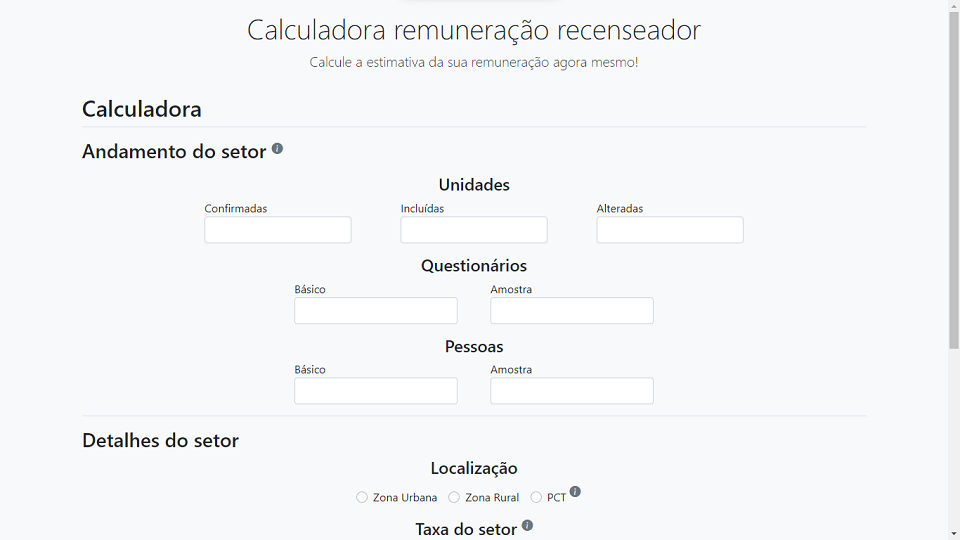
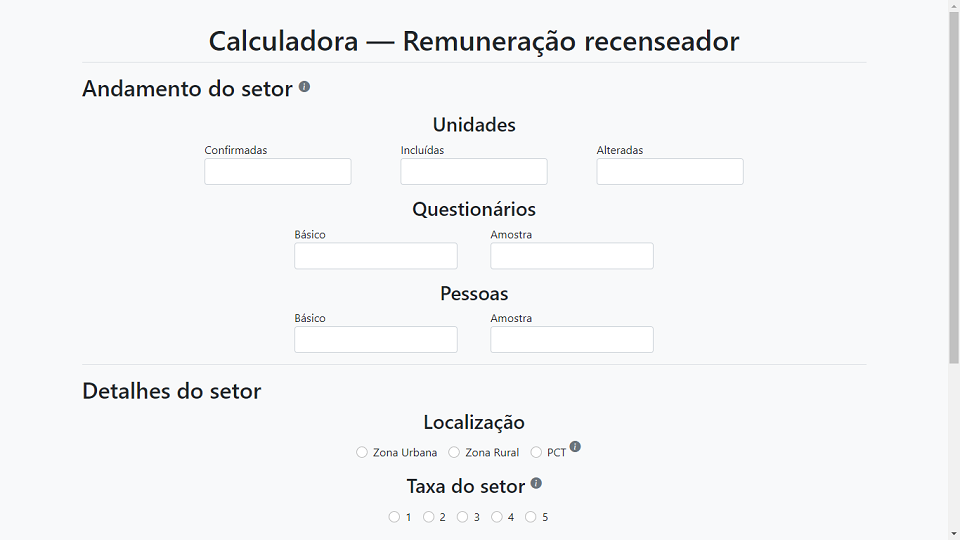
Pequenas mudanças no design

diff --git a/js/app.min.js b/js/app.min.js
@@ -1,1 +1,1 @@
-const tooltipTriggerList=[].slice.call(document.querySelectorAll('[data-bs-toggle="tooltip"]'));tooltipTriggerList.map(function(a){return new bootstrap.Tooltip(a)});let taxes={1:{urban:{unit:.51,basic:{people:.9,quiz:1.21},sample:{people:1.51,quiz:1.41}},rural:{unit:.56,basic:{people:1.01,quiz:1.34},sample:{people:1.67,quiz:1.57}}},2:{urban:{unit:.56,basic:{people:1.01,quiz:1.34},sample:{people:1.67,quiz:1.57}},rural:{unit:.62,basic:{people:1.1,quiz:1.46},sample:{people:1.83,quiz:1.7}}},3:{urban:{unit:.62,basic:{people:1.1,quiz:1.46},sample:{people:1.83,quiz:1.7}},rural:{unit:.69,basic:{people:1.21,quiz:1.61},sample:{people:2.01,quiz:1.89}}},4:{urban:{unit:.69,basic:{people:1.21,quiz:1.61},sample:{people:2.01,quiz:1.89}},rural:{unit:.75,basic:{people:1.33,quiz:1.76},sample:{people:2.21,quiz:2.07}}},5:{urban:{unit:.75,basic:{people:1.33,quiz:1.76},sample:{people:2.21,quiz:2.07}},rural:{unit:.82,basic:{people:1.46,quiz:1.94},sample:{people:2.45,quiz:2.28}}},6:{urban:{unit:.82,basic:{people:1.46,quiz:1.94},sample:{people:2.45,quiz:2.28}},rural:{unit:.9,basic:{people:1.6,quiz:2.14},sample:{people:2.68,quiz:2.51}}},7:{urban:{unit:.9,basic:{people:1.6,quiz:2.14},sample:{people:2.68,quiz:2.51}},rural:{unit:1,basic:{people:1.76,quiz:2.36},sample:{people:2.94,quiz:2.76}}},8:{urban:{unit:1,basic:{people:1.94,quiz:2.6},sample:{people:3.25,quiz:3.03}},rural:{unit:1.11,basic:{people:2.01,quiz:2.67},sample:{people:3.32,quiz:3.1}}},9:{urban:{unit:1.19,basic:{people:2.33,quiz:3.12},sample:{people:3.9,quiz:3.64}},rural:{unit:1.33,basic:{people:2.42,quiz:3.2},sample:{people:3.98,quiz:3.72}}},10:{urban:{unit:1.31,basic:{people:2.56,quiz:3.43},sample:{people:4.29,quiz:4}},rural:{unit:1.46,basic:{people:2.66,quiz:3.52},sample:{people:4.38,quiz:4.09}}},11:{urban:{unit:1.44,basic:{people:2.82,quiz:3.77},sample:{people:4.72,quiz:4.4}},rural:{unit:1.61,basic:{people:2.93,quiz:3.87},sample:{people:4.82,quiz:4.5}}}};$("#calculator").on("submit",function(j){if(j.preventDefault(),this.checkValidity()){let k=$("#number-sons").val(),h=0,c={taxe:14,discount:0},b={taxe:0,discount:0},e=$('input[name="taxe"]:checked').val(),d={},l=$('input[name="locale"]:checked').val(),i=parseInt($("#units-confirmed").val())+parseInt($("#units-changed").val()),a=0;i+=parseInt($("#units-included").val());let f={basic:parseInt($("#quiz-basic").val()),sample:parseInt($("#quiz-sample").val())},g={basic:parseInt($("#people-basic").val()),sample:parseInt($("#people-sample").val())};e=taxes[e][l],d.units=i*e.unit,d.quiz=f.basic*e.basic.quiz+f.sample*e.sample.quiz,d.people=g.basic*e.basic.people+g.sample*e.sample.people,a+=d.units+d.quiz+d.people,$("#units").html(i),$("#quiz").html(f.basic+f.sample),$("#people").html(g.basic+g.sample),$("#units-value").html(d.units.toLocaleString("pt-br",{style:"currency",currency:"BRL"})),$("#quiz-value").html(d.quiz.toLocaleString("pt-br",{style:"currency",currency:"BRL"})),$("#people-value").html(d.people.toLocaleString("pt-br",{style:"currency",currency:"BRL"})),a<=1655.98&&a>0?($("#quantity-sons").html(k),h=56.47*k):$("#family-salary").html("Sal\xe1rio fora da faixa contemplada!"),$("#family-salary-value").html(h.toLocaleString("pt-br",{style:"currency",currency:"BRL"})),a<=1212?c.taxe=7.5:a<=2427.35?c.taxe=9:a<=3641.03?c.taxe=12:a<=7087.22?c.taxe=14:c.discount=992.2108000000001,0===c.discount&&(c.discount-=a/100*c.taxe),$("#percent-inss").html(c.taxe.toLocaleString("pt-br")),$("#inss-value").html(c.discount.toLocaleString("pt-br",{style:"currency",currency:"BRL"})),(a+=c.discount)<=1903.98?b.taxe=0:a<=2826.65?(b.taxe=7.5,b.discount=142.8):a<=3751.05?(b.taxe=15,b.discount=354.8):a<=4664.68?(b.taxe=22.5,b.discount=636.13):(b.taxe=27.5,b.discount=869.36),b.discount-=a/100*b.taxe,$("#percent-irrf").html(b.taxe.toLocaleString("pt-br")),$("#irrf-value").html(b.discount.toLocaleString("pt-br",{style:"currency",currency:"BRL"})),a+=b.discount,a+=h,$("#income-value").html(a.toLocaleString("pt-br",{style:"currency",currency:"BRL"})),$("#income").removeClass("d-none"),window.location.href="#income"}else j.stopPropagation();$(this).addClass("was-validated")})
+const tooltipTriggerList=[].slice.call(document.querySelectorAll('[data-bs-toggle="tooltip"]'));tooltipTriggerList.map(function(a){return new bootstrap.Tooltip(a)});let taxes={1:{urban:{unit:.51,basic:{people:.9,quiz:1.21},sample:{people:1.51,quiz:1.41}},rural:{unit:.56,basic:{people:1.01,quiz:1.34},sample:{people:1.67,quiz:1.57}}},2:{urban:{unit:.56,basic:{people:1.01,quiz:1.34},sample:{people:1.67,quiz:1.57}},rural:{unit:.62,basic:{people:1.1,quiz:1.46},sample:{people:1.83,quiz:1.7}}},3:{urban:{unit:.62,basic:{people:1.1,quiz:1.46},sample:{people:1.83,quiz:1.7}},rural:{unit:.69,basic:{people:1.21,quiz:1.61},sample:{people:2.01,quiz:1.89}}},4:{urban:{unit:.69,basic:{people:1.21,quiz:1.61},sample:{people:2.01,quiz:1.89}},rural:{unit:.75,basic:{people:1.33,quiz:1.76},sample:{people:2.21,quiz:2.07}}},5:{urban:{unit:.75,basic:{people:1.33,quiz:1.76},sample:{people:2.21,quiz:2.07}},rural:{unit:.82,basic:{people:1.46,quiz:1.94},sample:{people:2.45,quiz:2.28}}},6:{urban:{unit:.82,basic:{people:1.46,quiz:1.94},sample:{people:2.45,quiz:2.28}},rural:{unit:.9,basic:{people:1.6,quiz:2.14},sample:{people:2.68,quiz:2.51}}},7:{urban:{unit:.9,basic:{people:1.6,quiz:2.14},sample:{people:2.68,quiz:2.51}},rural:{unit:1,basic:{people:1.76,quiz:2.36},sample:{people:2.94,quiz:2.76}}},8:{urban:{unit:1,basic:{people:1.94,quiz:2.6},sample:{people:3.25,quiz:3.03}},rural:{unit:1.11,basic:{people:2.01,quiz:2.67},sample:{people:3.32,quiz:3.1}}},9:{urban:{unit:1.19,basic:{people:2.33,quiz:3.12},sample:{people:3.9,quiz:3.64}},rural:{unit:1.33,basic:{people:2.42,quiz:3.2},sample:{people:3.98,quiz:3.72}}},10:{urban:{unit:1.31,basic:{people:2.56,quiz:3.43},sample:{people:4.29,quiz:4}},rural:{unit:1.46,basic:{people:2.66,quiz:3.52},sample:{people:4.38,quiz:4.09}}},11:{urban:{unit:1.44,basic:{people:2.82,quiz:3.77},sample:{people:4.72,quiz:4.4}},rural:{unit:1.61,basic:{people:2.93,quiz:3.87},sample:{people:4.82,quiz:4.5}}}};function currency(a){return a.toLocaleString("pt-br",{style:"currency",currency:"BRL"})}function calcINSS(b){let a={taxe:14,discount:0};return b<=1212?a.taxe=7.5:b<=2427.35?a.taxe=9:b<=3641.03?a.taxe=12:b<=7087.22?a.taxe=14:a.discount=992.2108000000001,0===a.discount&&(a.discount-=b/100*a.taxe),a}function calcIRRF(b){let a={taxe:0,discount:0};return b<=1903.98?a.taxe=0:b<=2826.65?(a.taxe=7.5,a.discount=142.8):b<=3751.05?(a.taxe=15,a.discount=354.8):b<=4664.68?(a.taxe=22.5,a.discount=636.13):(a.taxe=27.5,a.discount=869.36),a.discount-=b/100*a.taxe,a}$("#calculator").on("submit",function(j){if(j.preventDefault(),this.checkValidity()){let k=$("#number-sons").val(),h=0,a=0,d,e,c=$('input[name="taxe"]:checked').val(),b={},l=$('input[name="locale"]:checked').val(),i=parseInt($("#units-confirmed").val())+parseInt($("#units-changed").val());i+=parseInt($("#units-included").val());let f={basic:parseInt($("#quiz-basic").val()),sample:parseInt($("#quiz-sample").val())},g={basic:parseInt($("#people-basic").val()),sample:parseInt($("#people-sample").val())};c=taxes[c][l],b.units=i*c.unit,b.quiz=f.basic*c.basic.quiz+f.sample*c.sample.quiz,b.people=g.basic*c.basic.people+g.sample*c.sample.people,a+=b.units+b.quiz+b.people,$("#units").html(i),$("#quiz").html(f.basic+f.sample),$("#people").html(g.basic+g.sample),$("#units-value").html(currency(b.units)),$("#quiz-value").html(currency(b.quiz)),$("#people-value").html(currency(b.people)),a<=1655.98&&a>0?($("#quantity-sons").html(k),h=56.47*k):$("#family-salary").html("Sal\xe1rio fora da faixa contemplada!"),$("#family-salary-value").html(currency(h)),d=calcINSS(a),$("#percent-inss").html(d.taxe.toLocaleString("pt-br")),$("#inss-value").html(currency(d.discount)),a+=d.discount,e=calcIRRF(a),$("#percent-irrf").html(e.taxe.toLocaleString("pt-br")),$("#irrf-value").html(currency(e.discount)),a+=e.discount,a+=h,$("#income-value").html(currency(a)),$("#income").removeClass("d-none"),window.location.href="#income"}else j.stopPropagation();$(this).addClass("was-validated")})

diff --git a/js/app.js b/js/app.js
@@ -270,15 +270,15 @@ let taxes = {
     },
 }
 
-$('#calculator').on('submit', function (e) { // Realiza o cálculo da remuneração
+$('#calculator').on('submit', function (e) {
     e.preventDefault()
     if (!this.checkValidity()) {
         e.stopPropagation()
     } else {
-        let sons = $('#number-sons').val(), family = 0, inss = {taxe: 14, discount: 0}, irrf = {taxe: 0, discount: 0}
+        let sons = $('#number-sons').val(), family = 0, income = 0, inss, irrf
         let taxe = $('input[name="taxe"]:checked').val(), value = {}
         const locale = $('input[name="locale"]:checked').val()
-        let units = parseInt($('#units-confirmed').val()) + parseInt($('#units-changed').val()), income = 0
+        let units = parseInt($('#units-confirmed').val()) + parseInt($('#units-changed').val())
         units +=  parseInt($('#units-included').val())
         const quiz = {
             basic: parseInt($('#quiz-basic').val()),
@@ -288,66 +288,93 @@ $('#calculator').on('submit', function (e) { // Realiza o cálculo da remuneraç
             basic: parseInt($('#people-basic').val()),
             sample: parseInt($('#people-sample').val())
         }
+
         taxe = taxes[taxe][locale]
+
         value.units = units * taxe.unit
         value.quiz =  quiz.basic * taxe.basic.quiz + quiz.sample * taxe.sample.quiz
         value.people = people.basic * taxe.basic.people + people.sample * taxe.sample.people
+
         income += value.units + value.quiz + value.people
+
         $('#units').html(units)
         $('#quiz').html(quiz.basic + quiz.sample)
         $('#people').html(people.basic + people.sample)
-        $('#units-value').html(value.units.toLocaleString('pt-br', {style: 'currency', currency: 'BRL'}))
-        $('#quiz-value').html(value.quiz.toLocaleString('pt-br', {style: 'currency', currency: 'BRL'}))
-        $('#people-value').html(value.people.toLocaleString('pt-br', {style: 'currency', currency: 'BRL'}))
+
+        $('#units-value').html(currency(value.units))
+        $('#quiz-value').html(currency(value.quiz))
+        $('#people-value').html(currency(value.people))
 
         if (income <= 1655.98 && income > 0){
             $('#quantity-sons').html(sons)
             family = sons * 56.47
         } else $('#family-salary').html('Salário fora da faixa contemplada!')
-        $('#family-salary-value').html(family.toLocaleString('pt-br', {style: 'currency', currency: 'BRL'}))
 
-        if (income <= 1212) inss.taxe = 7.5
-        else if (income <= 2427.35) inss.taxe = 9
-        else if (income <= 3641.03) inss.taxe = 12
-        else if (income <= 7087.22) inss.taxe = 14
-        else inss.discount = 7087.22 / 100 * 14
-        if (inss.discount === 0) inss.discount -= income / 100 * inss.taxe
+        $('#family-salary-value').html(currency(family))
+
+        inss = calcINSS(income)
 
         $('#percent-inss').html(inss.taxe.toLocaleString('pt-br'))
-        $('#inss-value').html(inss.discount.toLocaleString('pt-br', {style: 'currency', currency: 'BRL'}))
+        $('#inss-value').html(currency(inss.discount))
 
         income += inss.discount
 
-        if (income <= 1903.98) irrf.taxe = 0
-        else if (income <= 2826.65){
-            irrf.taxe = 7.5
-            irrf.discount = 142.80
-        }
-        else if(income <= 3751.05){
-            irrf.taxe = 15
-            irrf.discount = 354.80
-        }
-        else if(income <= 4664.68){
-            irrf.taxe = 22.5
-            irrf.discount = 636.13
-        }
-        else{
-            irrf.taxe = 27.5
-            irrf.discount = 869.36
-        }
-
-        irrf.discount -= income / 100 * irrf.taxe
+        irrf = calcIRRF(income)
 
         $('#percent-irrf').html(irrf.taxe.toLocaleString('pt-br'))
-        $('#irrf-value').html(irrf.discount.toLocaleString('pt-br', {style: 'currency', currency: 'BRL'}))
+        $('#irrf-value').html(currency(irrf.discount))
 
         income += irrf.discount
         income += family
 
-        $('#income-value').html(income.toLocaleString('pt-br', {style: 'currency', currency: 'BRL'}))
+        $('#income-value').html(currency(income))
         $('#income').removeClass('d-none')
+
         window.location.href = '#income'
     }
 
     $(this).addClass('was-validated')
 })
+
+function currency(number){
+    return number.toLocaleString('pt-br', {style: 'currency', currency: 'BRL'})
+}
+
+function calcINSS(income){
+    let inss = {taxe: 14, discount: 0}
+
+    if (income <= 1212) inss.taxe = 7.5
+    else if (income <= 2427.35) inss.taxe = 9
+    else if (income <= 3641.03) inss.taxe = 12
+    else if (income <= 7087.22) inss.taxe = 14
+    else inss.discount = 7087.22 / 100 * 14
+    if (inss.discount === 0) inss.discount -= income / 100 * inss.taxe
+
+    return inss
+}
+
+function calcIRRF(income){
+    let irrf = {taxe: 0, discount: 0}
+
+    if (income <= 1903.98) irrf.taxe = 0
+    else if (income <= 2826.65){
+        irrf.taxe = 7.5
+        irrf.discount = 142.80
+    }
+    else if(income <= 3751.05){
+        irrf.taxe = 15
+        irrf.discount = 354.80
+    }
+    else if(income <= 4664.68){
+        irrf.taxe = 22.5
+        irrf.discount = 636.13
+    }
+    else{
+        irrf.taxe = 27.5
+        irrf.discount = 869.36
+    }
+
+    irrf.discount -= income / 100 * irrf.taxe
+
+    return irrf
+}

diff --git a/index.html b/index.html
@@ -4,7 +4,7 @@
     <meta charset="UTF-8">
     <meta name="viewport"
           content="width=device-width, user-scalable=no, initial-scale=1.0, maximum-scale=1.0, minimum-scale=1.0">
-    <title>Calculadora remuneração recenseador</title>
+    <title>Calculadora da remuneração do recenseador</title>
     <link href="/apps/ibge/css/bootstrap.min.css" rel="stylesheet"/>
     <link href="/apps/ibge/css/bootstrap-icons.css" rel="stylesheet"/>
     <meta content="pt_BR" property="og:locale"/>
@@ -20,18 +20,16 @@
           name="og:description"/>
 </head>
 <body class="pt-3 px-2 d-flex flex-column min-vh-100 bg-light">
-    <h1 class="display-6 text-center">Calculadora remuneração recenseador</h1>
-    <p class="lead text-center">Calcule a estimativa da sua remuneração agora mesmo!</p>
     <main class="container my-3">
-        <h2 class="border-bottom pb-2">Calculadora</h2>
-        <h3 class="mt-3">
+        <h1 class="border-bottom pb-2 text-center">Calculadora — Remuneração recenseador</h1>
+        <h2 class="mt-3">
             Andamento do setor
             <sup class="text-muted fs-6" data-bs-placement="right" data-bs-toggle="tooltip"
                                                  title="Acesse a aba Relatórios ou Andamento do Setor em seu DMC.">
             <i class="bi bi-info-circle-fill"></i>
-        </sup></h3>
+        </sup></h2>
         <form id="calculator" novalidate>
-            <h4 class="mt-3 text-center">Unidades</h4>
+            <h3 class="mt-3 text-center">Unidades</h3>
             <div class="d-sm-flex justify-content-around col-7 mx-auto col-sm-auto col-lg-9">
                 <div class="col-sm-3">
                     <label for="units-confirmed">Confirmadas</label>
@@ -49,7 +47,7 @@
                     <div class="invalid-feedback text-center">Este campo é obrigatório!</div>
                 </div>
             </div>
-            <h4 class="mt-3 text-center">Questionários</h4>
+            <h3 class="mt-3 text-center">Questionários</h3>
             <div class="d-flex justify-content-around col-12 col-sm-10 col-md-8 col-lg-6 mx-auto">
                 <div class="col-5">
                     <label for="quiz-basic">Básico</label>
@@ -62,7 +60,7 @@
                     <div class="invalid-feedback text-center">Este campo é obrigatório!</div>
                 </div>
             </div>
-            <h4 class="mt-3 text-center">Pessoas</h4>
+            <h3 class="mt-3 text-center">Pessoas</h3>
             <div class="d-flex justify-content-around col-12 col-sm-10 col-md-8 col-lg-6 mx-auto">
                 <div class="col-5">
                     <label for="people-basic">Básico</label>
@@ -75,8 +73,8 @@
                     <div class="invalid-feedback text-center">Este campo é obrigatório!</div>
                 </div>
             </div>
-            <h3 class="mt-3 border-top pt-3">Detalhes do setor</h3>
-            <h4 class="text-center mb-3">Localização</h4>
+            <h2 class="mt-3 border-top pt-3">Detalhes do setor</h2>
+            <h3 class="text-center mb-3">Localização</h3>
             <div class="d-flex justify-content-center">
                 <div class="form-check form-check-inline">
                     <input type="radio" name="locale" id="locale-urban" class="form-check-input" value="urban" required>
@@ -97,12 +95,12 @@
                     </label>
                 </div>
             </div>
-            <h4 class="text-center my-3">Taxa do setor
+            <h3 class="text-center my-3">Taxa do setor
                 <sup class="text-muted fs-6" data-bs-placement="right" data-bs-toggle="tooltip"
                      title="Você consegue essa informação com o seu ACS.">
                 <i class="bi bi-info-circle-fill"></i>
                 </sup>
-            </h4>
+            </h3>
             <div class="d-flex justify-content-center">
                 <div class="form-check form-check-inline">
                     <input type="radio" name="taxe" id="taxe-1" class="form-check-input" value=1 required>
@@ -151,16 +149,14 @@
                     <label for="taxe-11" class="form-check-label">11</label>
                 </div>
             </div>
-            <h3 class="mt-3 border-top pt-3">Benefícios</h3>
-            <h4 class="text-center my-3">Salário família</h4>
+            <h2 class="mt-3 border-top pt-3">Benefícios</h2>
+            <h3 class="text-center my-3">Salário família</h3>
             <div class="col-5 mx-auto">
                 <label for="number-sons">Nº de filhos até 14 anos</label>
                 <input type="number" class="form-control" id="number-sons" min="0" value="0" required>
             </div>
             <div class="row border-top mt-4 pt-4 d-none" id="income">
-                <h4 class="mb-3">
-                    <span class="text-primary">A receber</span>
-                </h4>
+                <h3 class="mb-3">A receber</h3>
                 <ul class="list-group mb-3">
                     <li class="list-group-item d-flex justify-content-between lh-sm">
                         <div>
